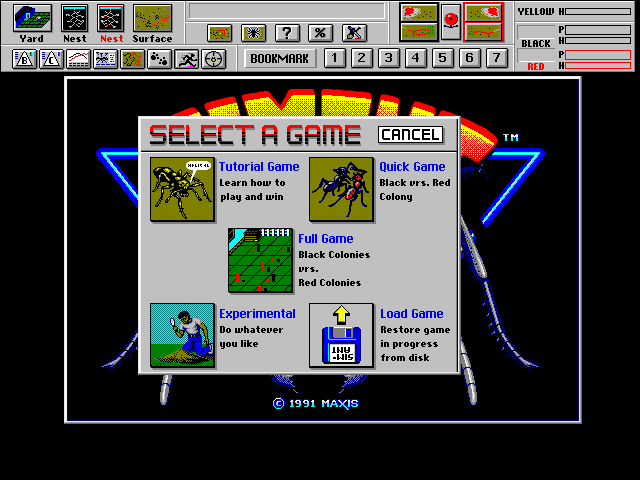
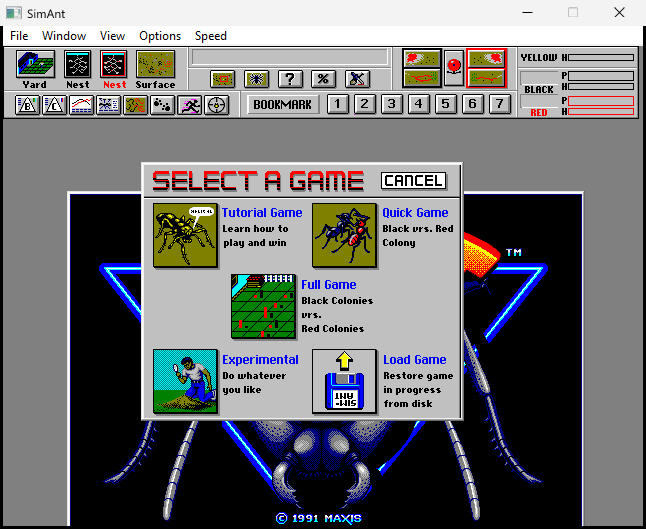
Quick Game runs: menu bar, 640x480 window, scripted clicks
With pcrecomp #115 the game gets its ANTMENU menu bar and a 640x480
client area, and real child-window geometry (real_windows). A click on
Quick Game opens the nest view and the colony simulates.

grab.ps1 -Click drives RECOMP_CURSOR, because the game polls
GetAsyncKeyState/GetCursorPos (_StillDown, _GetMousePos) rather than
trusting posted button messages.

diff --git a/runtime/game.c b/runtime/game.c
@@ -8,4 +8,7 @@ const RecompGame recomp_game = {
     /* SIMANT.CFG sits beside the EXE; the game opens its DATs by bare name. */
     .ini_fallbacks = { NULL },
     .path_anchor = NULL,
+    /* A ribbon bar, the play area and floating panels, all real child windows
+       the game measures and hit-tests against. */
+    .real_windows = 1,
 };

diff --git a/README.md b/README.md
@@ -8,17 +8,20 @@ and host runtime, the same code that runs [Catz](https://github.com/sp00nznet/ca
 Dogz and Oddballz. This repository holds only what is SimAnt's own: how to
 lift it, the few facts about the game the runtime needs, and the notes.
 
-![The recompiled SimAnt at its Select a Game screen](docs/select-a-game.png)
+![The recompiled SimAnt in a Quick Game: the black queen digging her first tunnel](docs/quick-game.png)
 
 ## Status
 
-**Pre-alpha: it boots to its game-select screen.**
+**Pre-alpha: a Quick Game starts and the colony simulates.**
 
 Every function lifts and links (12,612 lifted blocks, 0 unresolved calls).
-The game runs its C startup and WinMain, registers its window classes, reads
-`SIMANT.CFG`, opens its `SHARED`, `WINGANT` and `SOUND` databases, and draws
-its ribbon bar, title screen and **Select a Game** dialog, all from the game's
-own code. It has not been played past that screen. See [ROADMAP.md](ROADMAP.md).
+The game boots to its **Select a Game** screen with its own menu bar (File,
+Window, View, Options, Speed). Clicking **Quick Game** opens the nest view,
+and the black queen digs her first tunnel while the caste and behavior panels
+run beside it. All of it is the game's own code. Sound, some tool icons and
+much of the interface are still missing; see [ROADMAP.md](ROADMAP.md).
+
+![The Select a Game screen, with the game's menu bar](docs/select-a-game.png)
 
 | | |
 |---|---|
@@ -60,6 +63,16 @@ title gets them:
   resync exactly onto the next instruction.
 - **36 missing purges** and nine shims (`GetFreeSpace`, `GlobalCompact`,
   `TextOut`, `SetProp`, `wvsprintf`, …).
+- **Real menus** ([#115](https://github.com/sp00nznet/pcrecomp/pull/115)):
+  `ANTMENU` is built from the game's own `RT_MENU` resource.
+- **Real child windows**: SimAnt measures its ribbon, play area and panels.
+  `RecompGame.real_windows` gives it real geometry on a 640x480 virtual
+  screen, and a maximized frame now means that screen rather than the host's
+  desktop.
+- **Mouse polling**: the game takes a click by polling `GetAsyncKeyState` and
+  `GetCursorPos` (`_StillDown`, `_GetMousePos`) rather than trusting button
+  messages. `scripts/grab.ps1 -Click x,y` drives the runtime's `RECOMP_CURSOR`
+  file, so a scripted click works without moving the real mouse.
 
 ## Building
 
@@ -82,7 +95,8 @@ ninja -C build
 build/simant.exe
 ```
 
-`scripts/grab.ps1` runs the game and saves its window to `work/grab.png`.
+`scripts/grab.ps1` runs the game and saves its window to `work/grab.png`;
+`-Click 345,237` (screenshot coordinates) presses Quick Game and saves a second shot.
 
 The lifted C is written to `work/`, which is gitignored. It is a derivative of
 your copy of the game and is never committed. See [LICENSE](LICENSE).

diff --git a/ROADMAP.md b/ROADMAP.md
@@ -1,23 +1,26 @@
 # Roadmap
 
-## Now: past the Select a Game screen
+## Done
 
-What the runtime log still reports as unimplemented, roughly in the order the
-game reaches it:
+- Lifts with no unresolved calls, seeded from `SIMANTW.SYM`.
+- Boots to **Select a Game** in a 640x480 window, with the game's menu bar.
+- **Quick Game** starts, and the colony simulates.
 
-- **The window.** The frame stretches to the whole screen on a white
-  background; the game draws a 640x480 area in its top-left corner.
-- **The menu bar.** `SetMenu` and `ModifyMenu` are stubs, so `ANTMENU` never
-  appears.
+## Now: the Quick Game interface
+
+- **Tool icons.** The second ribbon row shows the same placeholder bitmap
+  eight times, so the game's tool bitmaps aren't being found or drawn.
+- **Window frames.** The game's floating panels get Windows 11 frames
+  (title bar, minimize/maximize buttons). Its own style bits should be
+  honoured instead.
+- **Speed.** Over 40 s the tunnel only grows a little. Check the game's
+  timer (`MYTIMERFUNC`, `SetTimer`) against what the Speed menu expects.
 - **Fonts.** `AddFontResource` is a stub. `FONTRES.FON` and `FONT1`–`FONT4`
-  ship with the game; the game also asks for `font5` and `font6`, which aren't
-  in this install.
-- **Regions and painting.** `CreateRectRgn`, `GetUpdateRgn`, `SetMapperFlags`.
-- **Odds and ends.** `GlobalFlags`, `GlobalLRUNewest`, `lstrcat`,
-  `GetSystemDirectory`, `GetProfileInt`, `GetTopWindow`, `WindowFromPoint`,
-  `EnumChildWindows`, `Escape`.
-
-Then: click through **Quick Game** and keep going until a colony runs.
+  ship with the game; it also asks for `font5` and `font6`, which aren't in
+  this install.
+- **Still unimplemented:** `CreateRectRgn`, `GetUpdateRgn`, `SetMapperFlags`,
+  `GlobalFlags`, `GlobalLRUNewest`, `lstrcat`, `GetSystemDirectory`,
+  `GetProfileInt`, `GetTopWindow`, `EnumChildWindows`, `Escape`.
 
 ## Sound and music
 
@@ -33,6 +36,7 @@ Then: click through **Quick Game** and keep going until a colony runs.
 ## Afterwards
 
 - Saving and loading `.ANT` games through the game's own dialogs.
-- A resizable, scaled window; the game is fixed at 640x480.
+- Tutorial, Full Game and Experimental modes.
+- A scaled window; the game is fixed at 640x480.
 - Checks against the original under emulation, the way the SimCity 2000
   project compares funds to the dollar.

diff --git a/CHANGELOG.md b/CHANGELOG.md
@@ -8,3 +8,7 @@
 - The game boots to its **Select a Game** screen: ribbon bar, title, the
   dialog, and its `SHARED`/`WINGANT`/`SOUND` databases loaded.
 - `tools/relift.py`, `runtime/game.c`, `scripts/grab.ps1`.
+- The game's own menu bar, a 640x480 window, and **Quick Game**: the colony
+  starts and the queen digs (pcrecomp #115, `real_windows`).
+- `scripts/grab.ps1 -Click x,y` presses a point through `RECOMP_CURSOR`, since
+  the game polls the mouse instead of trusting button messages.
